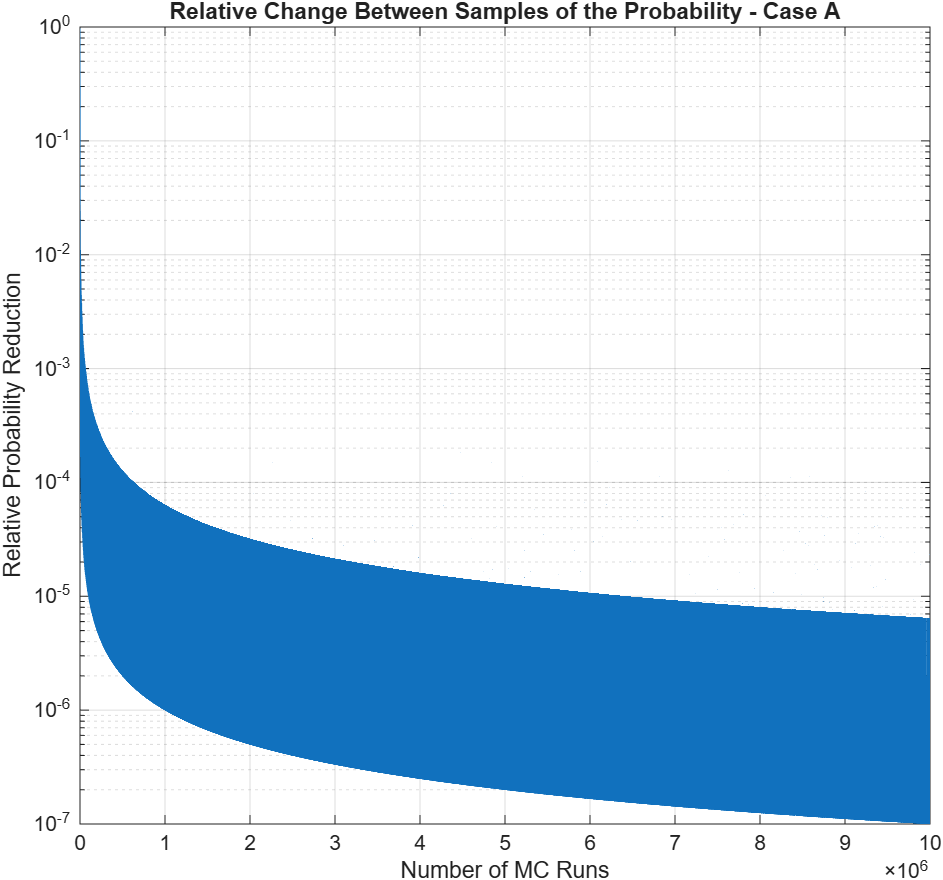
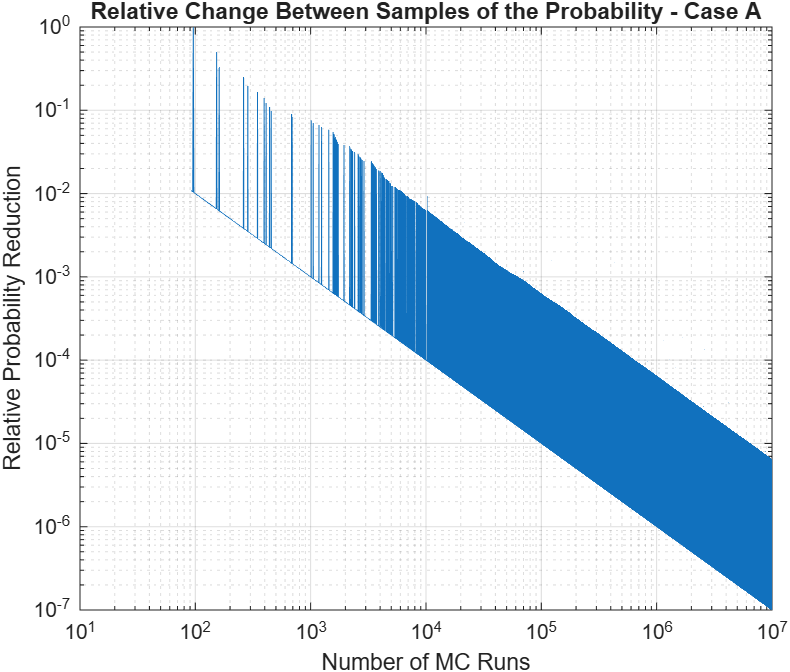
HW3 - making more plots.

diff --git a/HW/HW3/RunMC.m b/HW/HW3/RunMC.m
@@ -72,8 +72,9 @@ plotMeanAndVarForDiffGrid('Mid Point',uStats,'muAtXhalf','varAtXhalf',...
 % plotMeanAndVarForDiffGrid('Spatial Mean',uStats,'integralMu','integralVarU',...
 %     '$\int_{0}^{1}<u(x)>dx$','$\int_{0}^{1}Var(u(x))dx$', Nx, Nmc);
 
+
 %% Convergence of Mean and Variance of u(x)
-Nmc = 1E4;
+Nmc = 1E7;
 Nx = 101;
 
 % Setup Nmc dependent vars
@@ -132,13 +133,40 @@ title('Convergence of Probability Estimates Vs Number of MC Runs')
 
 % Reduction Plot Testing
 figure();
-smoothedReductionProbA = abs(diff(probCaseA)) ./ probCaseA(1:end-1);
-semilogy(2:Nmc, smoothedReductionProbA)
+smoothedReductionProbA = abs(diff(probCaseB)) ./ probCaseB(1:end-1);
+loglog(2:Nmc, smoothedReductionProbA)
 hold on;
 grid on
 xlabel('Number of MC Runs')
 ylabel('Relative Probability Reduction');
 title('Relative Change Between Samples of the Probability')
+
+
+% Plot Over entire domain
+idxToPlot =  [1E1, 1E3, 1E5, 1E7];
+figure();
+
+subplot(2,1,1);
+hold on;
+for i = idxToPlot
+    plot(x, uStats.mu(:,i), 'DisplayName',sprintf('N = %i',i));
+end
+grid on;
+xlabel('x');
+ylabel('<u(x)> Estimate');
+title('MC Estimate of <u(x)>')
+legend();
+
+subplot(2,1,2);
+hold on;
+for i = idxToPlot
+    plot(x, uStats.var(:,i), 'DisplayName',sprintf('N = %i',i));
+end
+grid on;
+xlabel('x');
+ylabel('Var(u(x)) Estimate');
+title('MC Estimate of Var(u(x))')
+legend();
 
 
 %% Grid Convergence Study - On Probabilities
@@ -215,6 +243,12 @@ function plotMeanAndVarForDiffGrid(figName,uStats,meanVar,varVar,yMuAxisName,yVa
     for i = 1:Ngrid
         semilogx(1:Nmc, uStats{i}.(meanVar),'DisplayName',sprintf('Nx = %i',Nx(i)));
         hold on;
+        if Ngrid == 1
+            semilogx(1:Nmc, uStats{i}.(meanVar)(end) + sqrt(uStats{i}.(varVar)(end) ./ (1:Nmc)), ...
+                '--k','DisplayName',sprintf('1 sigma Bound'));
+            semilogx(1:Nmc, uStats{i}.(meanVar)(end) - sqrt(uStats{i}.(varVar)(end) ./ (1:Nmc)), ...
+                '--k','DisplayName',sprintf('1 sigma Bound'));
+        end
     end
     grid on;
     legend();
@@ -226,7 +260,14 @@ function plotMeanAndVarForDiffGrid(figName,uStats,meanVar,varVar,yMuAxisName,yVa
     for i = 1:Ngrid
         semilogx(1:Nmc, uStats{i}.(varVar),'DisplayName',sprintf('Nx = %i',Nx(i)));
         hold on;
-    end
+
+        if Ngrid == 1
+            semilogx(2:Nmc, uStats{i}.(varVar)(end) + sqrt(2*uStats{i}.(varVar)(end)^2 ./ (1:Nmc-1)), ...
+                '--k','DisplayName',sprintf('1 sigma Bound'));
+            semilogx(2:Nmc, uStats{i}.(varVar)(end) -  sqrt(2*uStats{i}.(varVar)(end)^2 ./ (1:Nmc-1)), ...
+                '--k','DisplayName',sprintf('1 sigma Bound'));
+        end
+    end    
     grid on;
     legend();
     xlabel('Number of MonteCarlo Runs');
